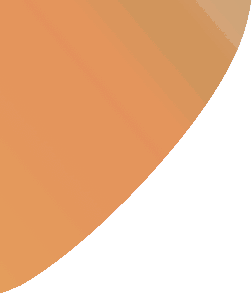
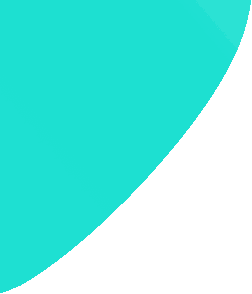
Redesign, Connected colors to colors.dart, fixed errors

diff --git a/lib/screens/login_page.dart b/lib/screens/login_page.dart
@@ -11,6 +11,7 @@ import 'package:sportshive/screens/event_page.dart';
 import 'package:sportshive/screens/preference_screen.dart';
 import 'package:sportshive/screens/profile_screen.dart';
 import 'package:sportshive/screens/welcome_screen.dart';
+import 'package:sportshive/utils/colors.dart';
 import 'package:sportshive/widgets/text_field_input.dart';
 
 class LoginScreen extends StatefulWidget {
@@ -36,7 +37,7 @@ class LoginScreenState extends State<LoginScreen> {
     return Scaffold(
       floatingActionButtonLocation: FloatingActionButtonLocation.startTop,
       floatingActionButton: FloatingActionButton(
-        backgroundColor: Colors.orange,
+        backgroundColor: orange,
         onPressed: () {
           Navigator.pop(context);
         },
@@ -86,6 +87,7 @@ class LoginScreenState extends State<LoginScreen> {
 
               InkWell(
                 child: RoundedButton(
+                  color: orange,
                   text: 'Log In',
                   press: () async {
                     User? user = await loginWithEmail(
@@ -99,19 +101,6 @@ class LoginScreenState extends State<LoginScreen> {
                           builder: (context) => MobileScreenLayout()));
                     }
                   },
-
-                  //bdeirs old button:
-                  // child: const Text('Log in'),
-                  // width: double.infinity,
-                  // alignment: Alignment.center,
-                  // padding: const EdgeInsets.symmetric(vertical: 12),
-                  // decoration: const ShapeDecoration(
-                  //     shape: RoundedRectangleBorder(
-                  //       borderRadius: BorderRadius.all(
-                  //         Radius.circular(4),
-                  //       ),
-                  //     ),
-                  //     color: orange),
                 ),
               ),
 

diff --git a/lib/screens/create.dart b/lib/screens/create.dart
@@ -1,9 +1,7 @@
-import 'dart:typed_data';
 import 'package:flutter/material.dart';
-import 'package:image_picker/image_picker.dart';
 import 'package:sportshive/screens/create_post_screen.dart';
-import 'package:sportshive/utils/utils.dart';
-import 'create_event_screen.dart';
+import 'package:sportshive/screens/create_event_screen.dart';
+import 'package:sportshive/utils/colors.dart';
 
 class CreatePost extends StatefulWidget {
   const CreatePost({Key? key}) : super(key: key);
@@ -24,7 +22,7 @@ class _CreatePostScreenState extends State<CreatePost> {
       child: ElevatedButton(
         onPressed: onPressed,
         style: ElevatedButton.styleFrom(
-          primary: Colors.orange,
+          primary: orange,
         ),
         child: Row(
           mainAxisSize: MainAxisSize.min,
@@ -51,6 +49,23 @@ class _CreatePostScreenState extends State<CreatePost> {
         child: Column(
           mainAxisAlignment: MainAxisAlignment.center,
           children: [
+            Text(
+              "Share your thoughts or promote your event with the community!",
+              style: TextStyle(
+                fontWeight: FontWeight.bold,
+                fontSize: 24,
+                color: Colors.white,
+                shadows: [
+                  Shadow(
+                    blurRadius: 10.0,
+                    color: Colors.black,
+                    offset: Offset(2.0, 2.0),
+                  ),
+                ],
+              ),
+              textAlign: TextAlign.center,
+            ),
+            SizedBox(height: 40),
             _buildElevatedButton(
               'Create Post',
               Icons.add,

diff --git a/lib/screens/create_event_screen.dart b/lib/screens/create_event_screen.dart
@@ -1,4 +1,3 @@
-
 import 'package:cloud_firestore/cloud_firestore.dart';
 import 'package:firebase_storage/firebase_storage.dart';
 import 'package:flutter/material.dart';
@@ -98,7 +97,7 @@ class _CreateEventScreenState extends State<CreateEventScreen> {
                 mobileBackgroundColor, // Change this to the color you want for the title
           ),
         ),
-        backgroundColor: Colors.orange,
+        backgroundColor: orange,
         iconTheme: IconThemeData(
           color: mobileBackgroundColor,
         ),
@@ -246,8 +245,7 @@ class _CreateEventScreenState extends State<CreateEventScreen> {
                   createEvent(context);
                 },
                 style: ButtonStyle(
-                  backgroundColor:
-                      MaterialStateProperty.all<Color>(Colors.orange),
+                  backgroundColor: MaterialStateProperty.all<Color>(orange),
                 ),
                 child: Text('Create Event'),
               ),
@@ -279,7 +277,7 @@ class _CreateEventScreenState extends State<CreateEventScreen> {
           () => Get.snackbar(
               "Success", "Your SportsHive Event has been created successfully!",
               snackPosition: SnackPosition.TOP,
-              backgroundColor: Colors.orangeAccent.withOpacity(1),
+              backgroundColor: orange,
               colorText: Colors.black),
         )
         .catchError((error, stackTrace) {

diff --git a/lib/screens/event_page.dart b/lib/screens/event_page.dart
@@ -95,8 +95,8 @@ class _EventsScreenState extends State<EventsScreen> {
                                     Spacer(),
                                     Container(
                                       decoration: BoxDecoration(
-                                        border: Border.all(
-                                            width: 3, color: Color(0xffFAE072)),
+                                        border:
+                                            Border.all(width: 3, color: orange),
                                         borderRadius: BorderRadius.circular(30),
                                       ),
                                       child: ClipRRect(
@@ -140,7 +140,7 @@ class _EventsScreenState extends State<EventsScreen> {
                                 Text(
                                   "EVENTS ",
                                   style: TextStyle(
-                                      color: Colors.orange,
+                                      color: orange,
                                       fontSize: 22,
                                       fontWeight: FontWeight.w800),
                                 ),

diff --git a/lib/components/body.dart b/lib/components/body.dart
@@ -3,6 +3,7 @@ import 'package:flutter_svg/flutter_svg.dart';
 import 'package:sportshive/components/rounded_button.dart';
 import 'package:sportshive/screens/login_page.dart';
 import 'package:sportshive/screens/signup_page.dart';
+import 'package:sportshive/utils/colors.dart';
 
 import '../screens/welcome_screen.dart';
 import 'background.dart';
@@ -22,8 +23,7 @@ class Body extends StatelessWidget {
             "Welcome to SportsHive",
             style: TextStyle(fontWeight: FontWeight.bold, fontSize: 24),
           ),
-          SvgPicture.asset("assets/images/welcome.svg",
-              height: size.height * 0.41),
+          Image.asset("assets/WEL.png", height: size.height * 0.41),
           RoundedButton(
             text: "LOG IN",
             press: () {
@@ -34,7 +34,7 @@ class Body extends StatelessWidget {
           RoundedButton(
             text: "SIGN UP",
             textColor: Colors.black,
-            color: Colors.orangeAccent,
+            color: orange,
             press: () {
               Navigator.push(
                   context,

diff --git a/lib/screens/preference_screen.dart b/lib/screens/preference_screen.dart
@@ -1,6 +1,7 @@
 import 'package:flutter/material.dart';
 import 'package:sportshive/components/background.dart';
 import 'package:sportshive/screens/editprofile_page.dart';
+import 'package:sportshive/utils/colors.dart';
 
 import '../../responsive/mobile_screen_layout.dart';
 
@@ -18,7 +19,7 @@ class _SportsPreferenceScreenState extends State<SportsPreferenceScreen> {
       child: Scaffold(
         appBar: AppBar(
           title: Text('Select Your Preferred Sport(s)'),
-          backgroundColor: Colors.orange,
+          backgroundColor: orange,
           iconTheme: IconThemeData(color: Colors.white),
         ),
         body: Padding(
@@ -77,7 +78,7 @@ class _SportsPreferenceScreenState extends State<SportsPreferenceScreen> {
         child: Container(
           decoration: BoxDecoration(
             border: Border.all(
-              color: isSelected ? Colors.orange : Colors.grey,
+              color: isSelected ? orange : Colors.grey,
               width: 2.0,
             ),
           ),

diff --git a/lib/responsive/mobile_screen_layout.dart b/lib/responsive/mobile_screen_layout.dart
@@ -1,5 +1,6 @@
 import 'package:firebase_auth/firebase_auth.dart';
 import 'package:flutter/material.dart';
+import 'package:sportshive/screens/editprofile_page.dart';
 import 'package:sportshive/screens/login_page.dart';
 import 'package:sportshive/screens/popup_page.dart';
 import 'package:sportshive/utils/colors.dart';
@@ -73,9 +74,13 @@ class _MobileScreenLayoutState extends State<MobileScreenLayout> {
             ElevatedButton(
               onPressed: () {
                 // Add code here for the search button
+                Navigator.push(
+                  context,
+                  MaterialPageRoute(builder: (context) => WelcomeScreen()),
+                );
               },
               style: ElevatedButton.styleFrom(
-                primary: Colors.orange, // Set the background color
+                primary: orange, // Set the background color
                 onPrimary: Colors.white, // Set the text color
               ),
               child: Row(

diff --git a/lib/screens/signup_page.dart b/lib/screens/signup_page.dart
@@ -10,6 +10,7 @@ import 'package:sportshive/data/models/user_model.dart';
 import 'package:sportshive/responsive/mobile_screen_layout.dart';
 import 'package:sportshive/screens/preference_screen.dart';
 import 'package:sportshive/screens/welcome_screen.dart';
+import 'package:sportshive/utils/colors.dart';
 import 'package:sportshive/widgets/text_field_input.dart' as CustomTextField;
 import 'package:sportshive/screens/editprofile_page.dart';
 import 'package:firebase_auth/firebase_auth.dart';
@@ -67,7 +68,7 @@ class SignUpScreenState extends State<SignupScreen> {
       key: _formkey,
       floatingActionButtonLocation: FloatingActionButtonLocation.startTop,
       floatingActionButton: FloatingActionButton(
-        backgroundColor: Colors.orange,
+        backgroundColor: orange,
         onPressed: () {
           Navigator.pop(context);
         },

diff --git a/lib/main.dart b/lib/main.dart
@@ -2,6 +2,9 @@ import 'package:firebase_core/firebase_core.dart';
 import 'package:flutter/material.dart';
 import 'package:get/get.dart';
 import 'package:sportshive/data/repositories/auth_repo.dart';
+import 'package:sportshive/screens/event_page.dart';
+import 'package:sportshive/screens/login_page.dart';
+import 'package:sportshive/screens/signup_page.dart';
 import 'package:sportshive/screens/welcome_screen.dart';
 import 'package:sportshive/utils/colors.dart';
 // import 'package:sportshive/responsive/mobile_screen_layout.dart';
@@ -29,7 +32,7 @@ class MyApp extends StatelessWidget {
       theme: ThemeData.dark().copyWith(
         scaffoldBackgroundColor: mobileBackgroundColor,
       ),
-      home: WelcomeScreen(),
+      home: EventsScreen(),
     );
   }
 }

diff --git a/lib/components/rounded_button.dart b/lib/components/rounded_button.dart
@@ -1,4 +1,3 @@
-
 import 'package:flutter/material.dart';
 
 import '../utils/colors.dart';
@@ -26,7 +25,7 @@ class RoundedButton extends StatelessWidget {
         child: TextButton(
           style: TextButton.styleFrom(
               padding: const EdgeInsets.symmetric(vertical: 21, horizontal: 41),
-              backgroundColor: Color.fromARGB(255, 241, 148, 26)),
+              backgroundColor: orange),
           onPressed: press,
           child: Text(text, style: TextStyle(color: textColor)),
         ),

diff --git a/lib/utils/colors.dart b/lib/utils/colors.dart
@@ -3,7 +3,7 @@ import 'package:flutter/material.dart';
 const mobileBackgroundColor = Color.fromRGBO(27, 26, 26, 1);
 const webBackgroundColor = Color.fromRGBO(18, 18, 18, 1);
 const mobileSearchColor = Color.fromRGBO(38, 38, 38, 1);
-const orange = Color.fromRGBO(255, 166, 0, 1);
+const orange = Color.fromRGBO(0, 255, 225, 0.863);
 const secOrange = Color.fromRGBO(166, 144, 103, 1);
 const primaryColor = Colors.white;
 const secondaryColor = Colors.grey;

diff --git a/lib/screens/create_post_screen.dart b/lib/screens/create_post_screen.dart
@@ -227,7 +227,7 @@ class _AddPostScreenState extends State<AddPostScreen> {
       child: ChoiceChip(
         selected: isSelected,
         label: Text(sport),
-        selectedColor: Colors.orange,
+        selectedColor: orange,
         onSelected: (selected) {
           setState(() {
             if (selected) {
